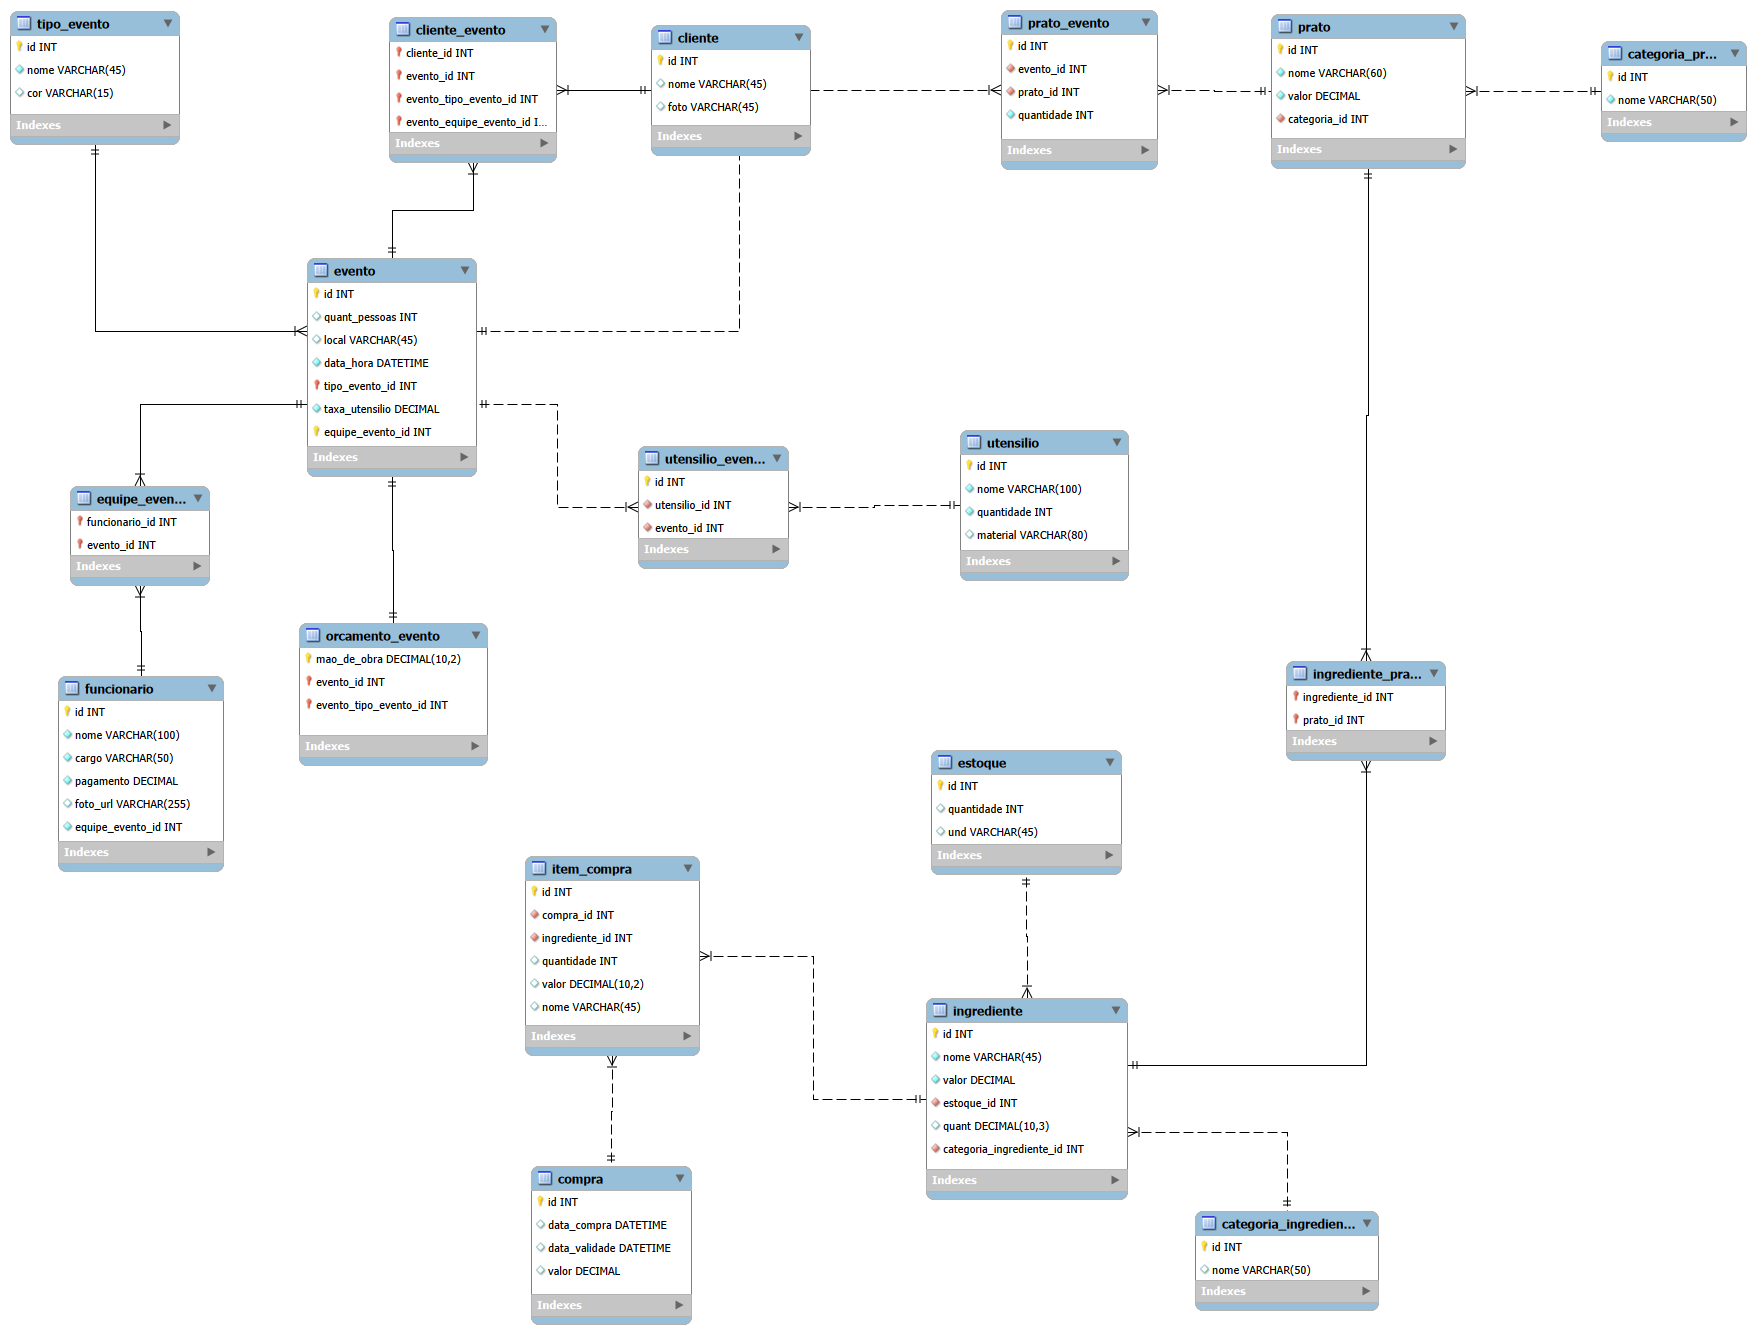
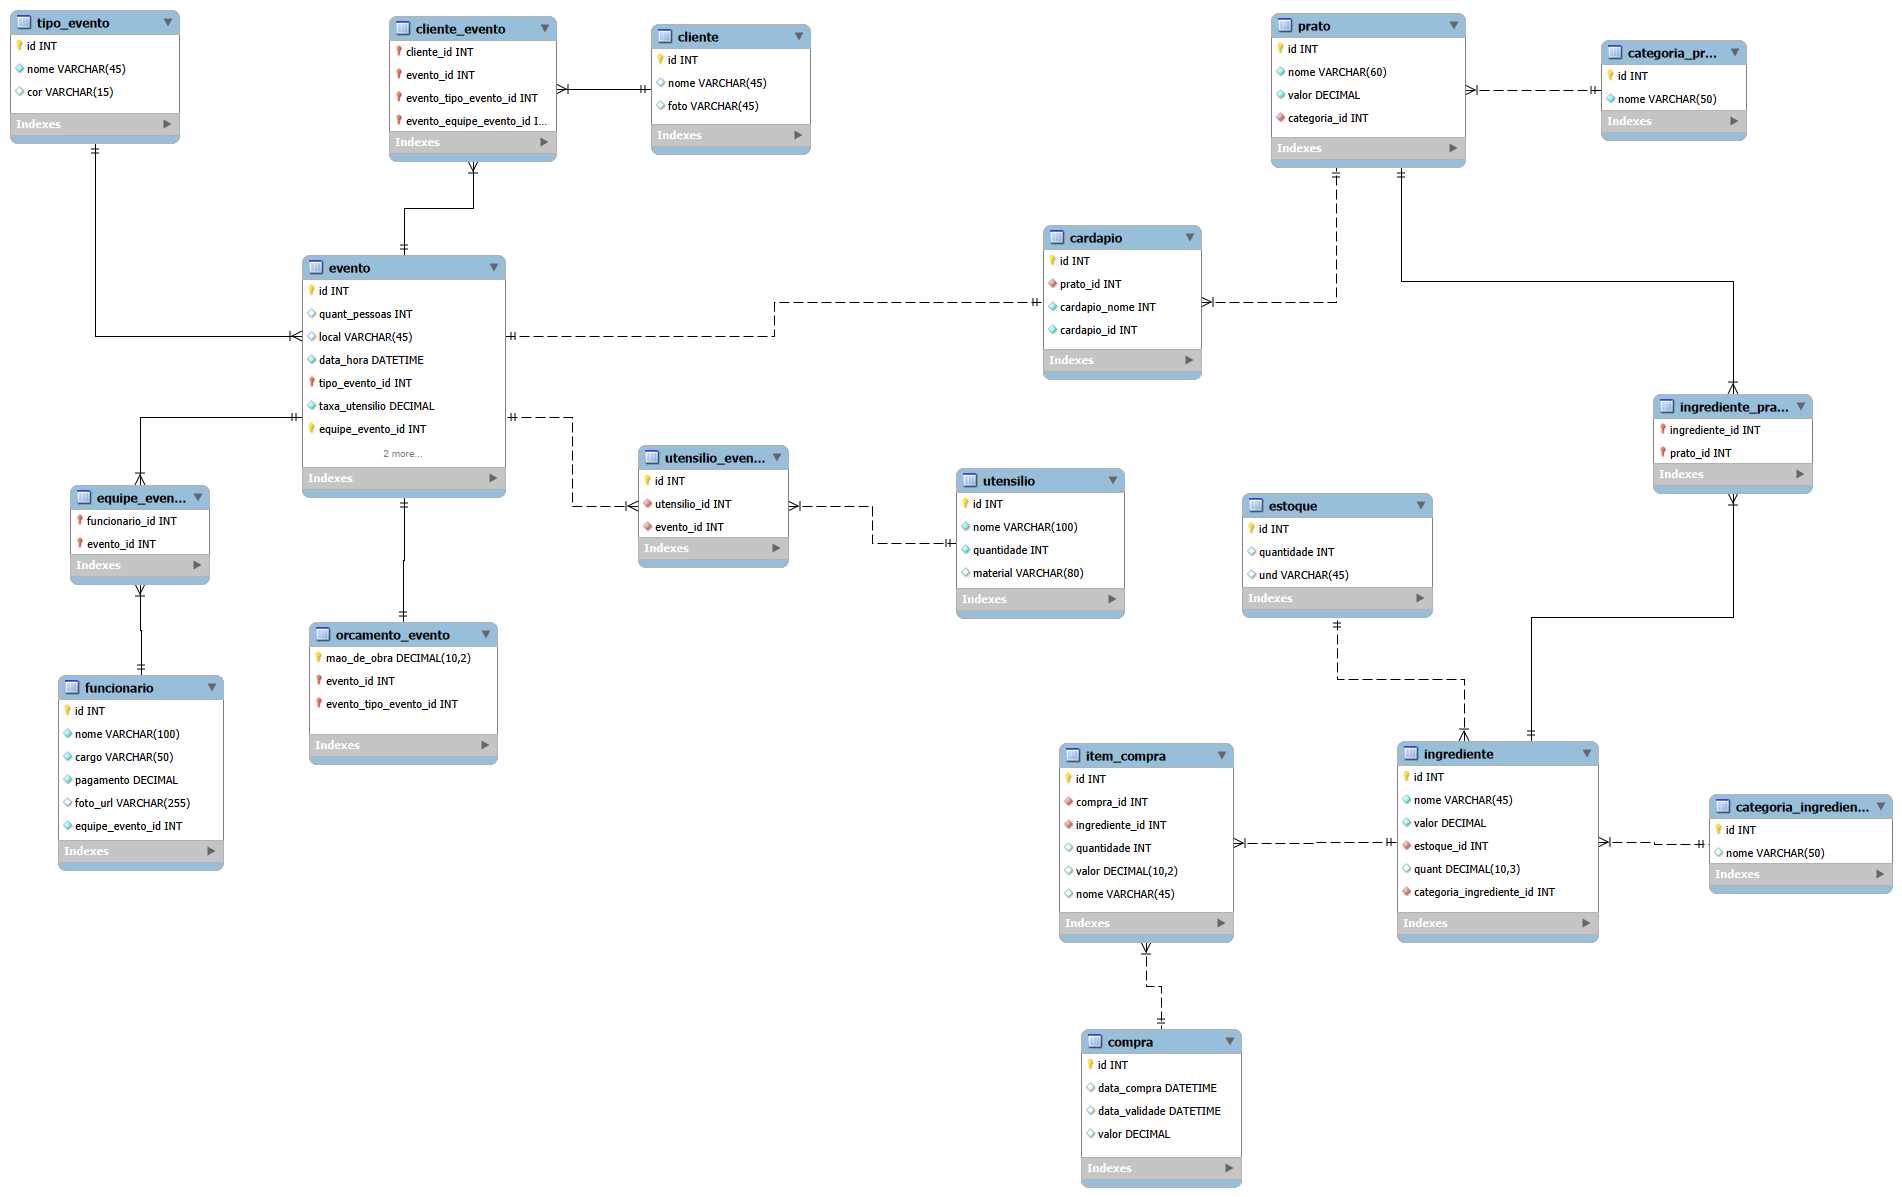
feat: atualização da modelagem

diff --git a/README.md b/README.md
@@ -67,7 +67,7 @@ O sistema utiliza um banco de dados relacional para gerenciar a logística de ev
 - `categoria_ingrediente` : Classifica os ingredientes em grupos específicos (ex: laticínios, carnes, vegetais), facilitando a organização e busca no sistema.
 - `prato`: Contém os tipos de comidas e o valor necessário para seu preparo.
 - `categoria_prato` : Organiza os pratos em grupos (ex: entradas, pratos principais, sobremesas).
-- `prato_evento` : Tabela associativa que define quais pratos do cardápio farão parte de um evento específico e a quantidade de porções/unidades previstas.
+- `cardapio` : Contém a junção de todos os pratos do evento.
 - `ingrediente`: Armazena os ingredientes necessários para a produção dos pratos e seu valor de custo.
 - `estoque`: Contém a quantidade disponível de cada ingrediente.
 - `compra`: Registra os ingredientes que precisam ser comprados (porque não possuem no estoque) e permite o controle de validade, data da compra e o custo total.
@@ -91,7 +91,7 @@ Para resolver as relações de Muitos-para-Muitos (N:N), foram implementadas as 
 **4.3. Diagrama de Entidade-Relacionamento (DER)**
 
 
-![Diagrama de Entidade-Relacionamento](img/Modelagem.png)
+![Diagrama de Entidade-Relacionamento](img/modelagem.png)
 
 
 -- -- 
